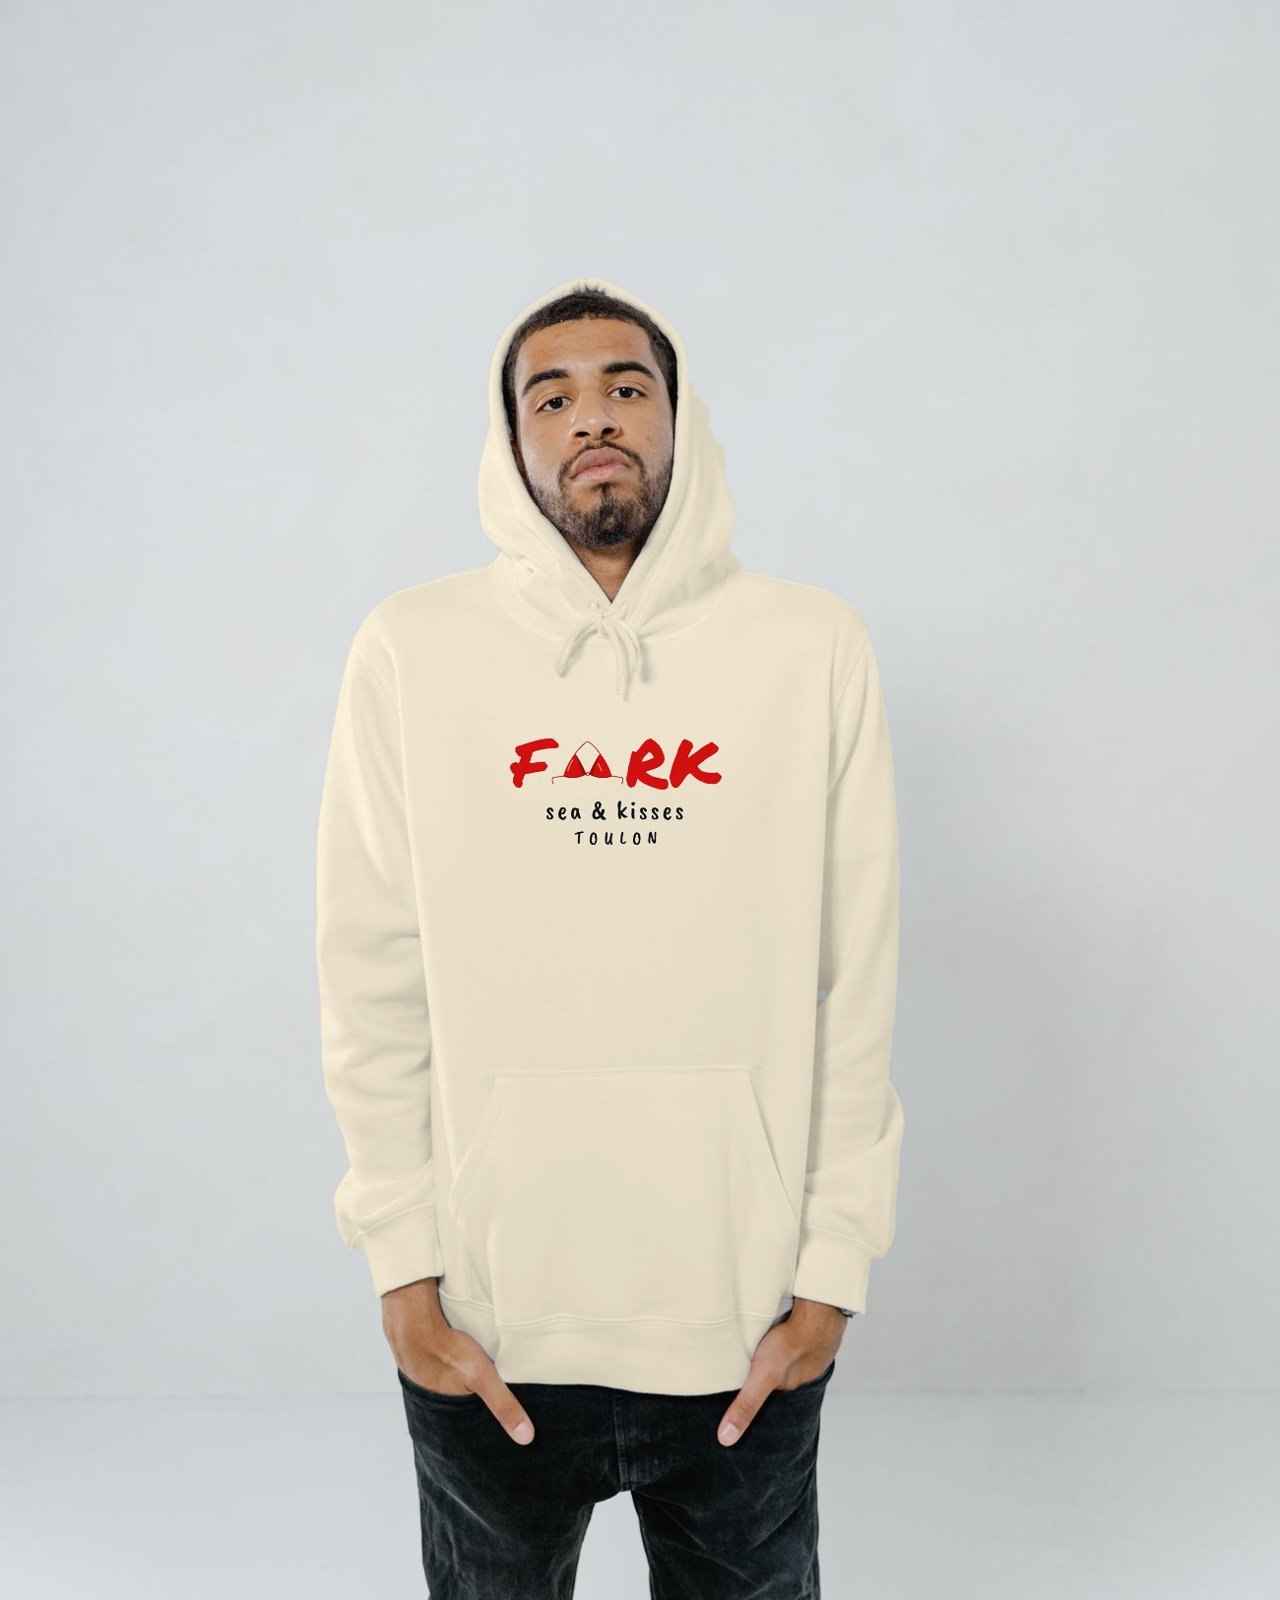
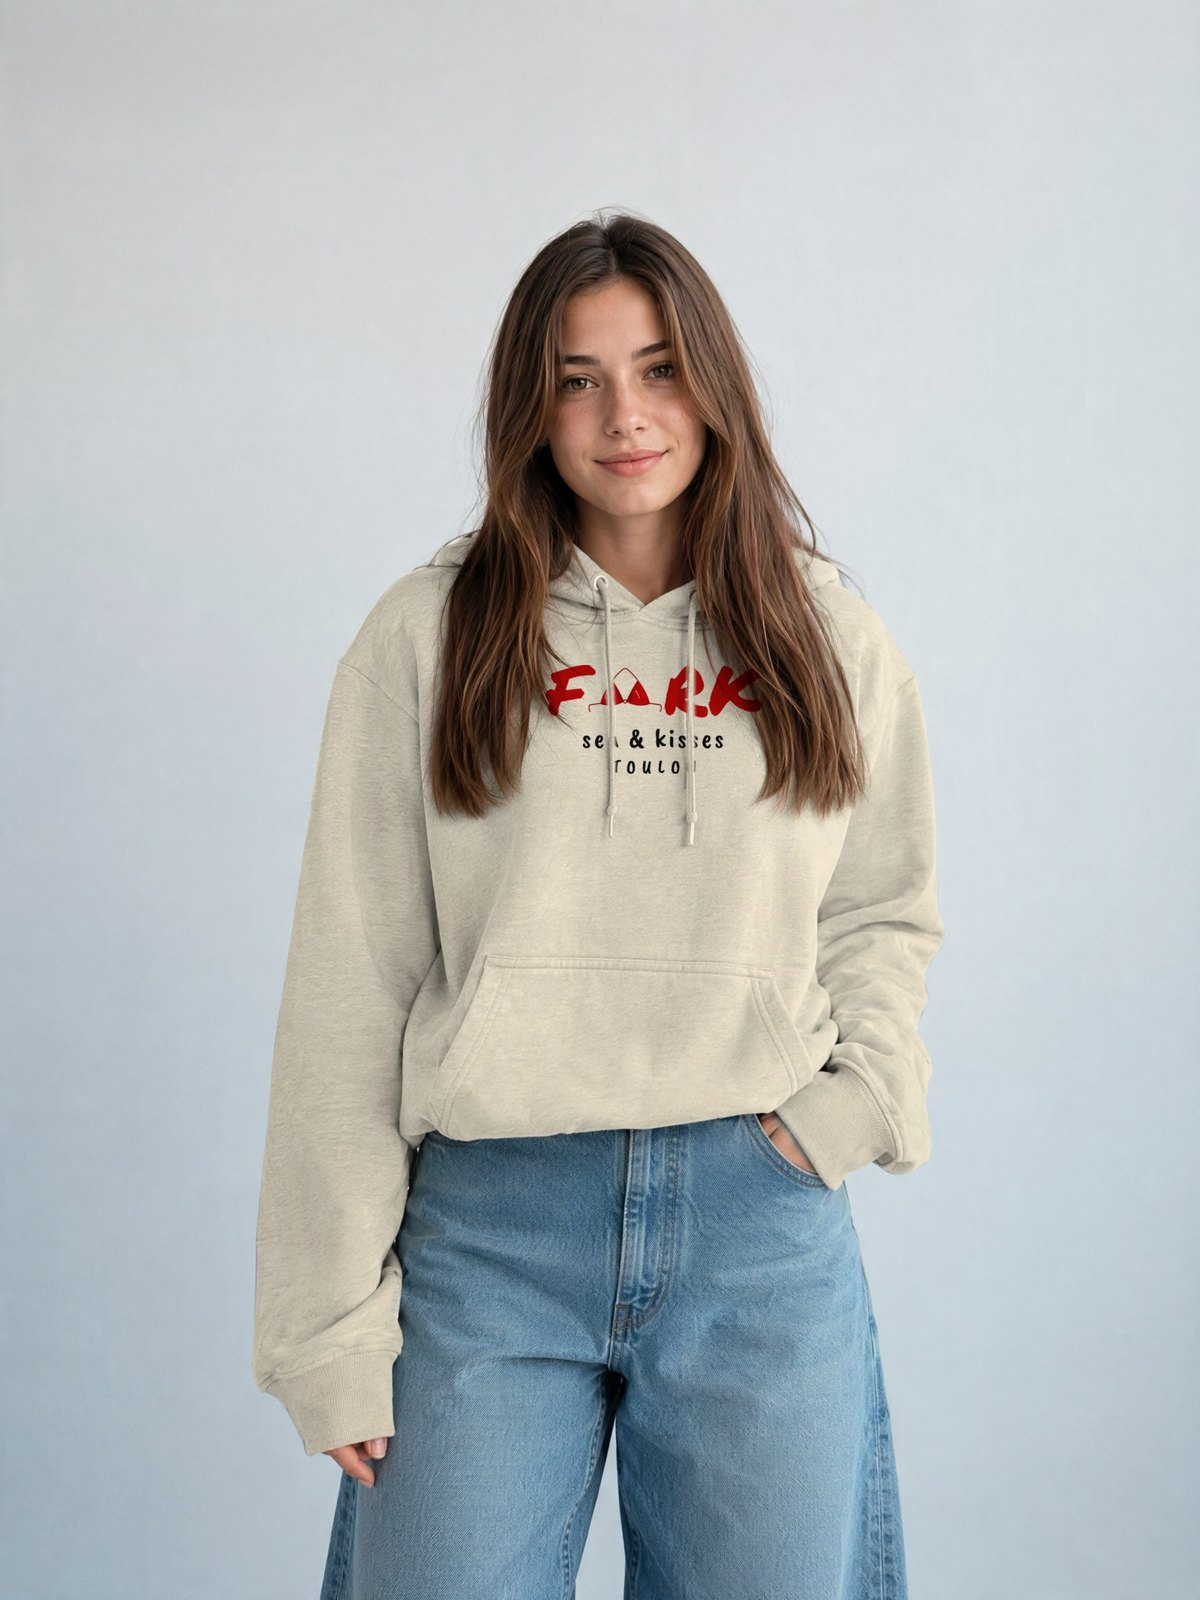
Sweats : nouvelles photos portées (Peuchère face, Kiss me face, Fada de toi face et dos)
Claude-Session: https://claude.ai/code/session_01GFcEo8CeEWRdz4Zgtn1h3S

diff --git a/public/sweat/fada-de-toi/index.html b/public/sweat/fada-de-toi/index.html
@@ -26,12 +26,12 @@
   <meta property="og:url" content="https://fork-clothe.com/sweat/fada-de-toi/">
   <meta property="og:title" content="Sweat Fada de toi · FORK">
   <meta property="og:description" content="Être fada de quelqu&#39;un, c&#39;est l&#39;aimer à la toulonnaise : fort et sans retenue. Devant, le logo FORK et « fada de toi », avec un cœur à la place du point du i. Dans le dos, le grand cœur FORK et TOULON.">
-  <meta property="og:image" content="https://fork-clothe.com/assets/products/fada-de-toi/fada-de-toi-maquette-face.jpg">
-  <meta property="og:image:alt" content="Sweat à capuche crème Fada de toi, vue de face">
+  <meta property="og:image" content="https://fork-clothe.com/assets/products/fada-de-toi/fada-de-toi-face.jpg">
+  <meta property="og:image:alt" content="Sweat Fada de toi crème porté de face : FORK et « fada de toi » avec un cœur">
   <meta property="product:price:amount" content="45.00">
   <meta property="product:price:currency" content="EUR">
   <meta name="twitter:card" content="summary_large_image">
-  <script type="application/ld+json">{"@context":"https://schema.org","@type":"Product","name":"Sweat Fada de toi","description":"Être fada de quelqu'un, c'est l'aimer à la toulonnaise : fort et sans retenue. Devant, le logo FORK et « fada de toi », avec un cœur à la place du point du i. Dans le dos, le grand cœur FORK et TOULON.","image":["https://fork-clothe.com/assets/products/fada-de-toi/fada-de-toi-maquette-face.jpg","https://fork-clothe.com/assets/products/fada-de-toi/fada-de-toi-maquette-dos.jpg"],"sku":"fork-sweat-fada-de-toi","color":"Crème","brand":{"@type":"Brand","name":"FORK"},"offers":{"@type":"Offer","url":"https://fork-clothe.com/sweat/fada-de-toi/","price":"45.00","priceCurrency":"EUR","availability":"https://schema.org/InStock","itemCondition":"https://schema.org/NewCondition","seller":{"@type":"Organization","name":"FORK"},"shippingDetails":{"@type":"OfferShippingDetails","shippingRate":{"@type":"MonetaryAmount","value":7.64,"currency":"EUR"},"shippingDestination":{"@type":"DefinedRegion","addressCountry":"FR"},"deliveryTime":{"@type":"ShippingDeliveryTime","handlingTime":{"@type":"QuantitativeValue","minValue":1,"maxValue":3,"unitCode":"DAY"},"transitTime":{"@type":"QuantitativeValue","minValue":1,"maxValue":5,"unitCode":"DAY"}}},"hasMerchantReturnPolicy":{"@type":"MerchantReturnPolicy","applicableCountry":"FR","returnPolicyCategory":"https://schema.org/MerchantReturnFiniteReturnWindow","merchantReturnDays":14,"returnMethod":"https://schema.org/ReturnByMail","returnFees":"https://schema.org/ReturnFeesCustomerResponsibility"}}}</script>
+  <script type="application/ld+json">{"@context":"https://schema.org","@type":"Product","name":"Sweat Fada de toi","description":"Être fada de quelqu'un, c'est l'aimer à la toulonnaise : fort et sans retenue. Devant, le logo FORK et « fada de toi », avec un cœur à la place du point du i. Dans le dos, le grand cœur FORK et TOULON.","image":["https://fork-clothe.com/assets/products/fada-de-toi/fada-de-toi-face.jpg","https://fork-clothe.com/assets/products/fada-de-toi/fada-de-toi-dos.jpg"],"sku":"fork-sweat-fada-de-toi","color":"Crème","brand":{"@type":"Brand","name":"FORK"},"offers":{"@type":"Offer","url":"https://fork-clothe.com/sweat/fada-de-toi/","price":"45.00","priceCurrency":"EUR","availability":"https://schema.org/InStock","itemCondition":"https://schema.org/NewCondition","seller":{"@type":"Organization","name":"FORK"},"shippingDetails":{"@type":"OfferShippingDetails","shippingRate":{"@type":"MonetaryAmount","value":7.64,"currency":"EUR"},"shippingDestination":{"@type":"DefinedRegion","addressCountry":"FR"},"deliveryTime":{"@type":"ShippingDeliveryTime","handlingTime":{"@type":"QuantitativeValue","minValue":1,"maxValue":3,"unitCode":"DAY"},"transitTime":{"@type":"QuantitativeValue","minValue":1,"maxValue":5,"unitCode":"DAY"}}},"hasMerchantReturnPolicy":{"@type":"MerchantReturnPolicy","applicableCountry":"FR","returnPolicyCategory":"https://schema.org/MerchantReturnFiniteReturnWindow","merchantReturnDays":14,"returnMethod":"https://schema.org/ReturnByMail","returnFees":"https://schema.org/ReturnFeesCustomerResponsibility"}}}</script>
   <script type="application/ld+json">{"@context":"https://schema.org","@type":"BreadcrumbList","itemListElement":[{"@type":"ListItem","position":1,"name":"Les sweats","item":"https://fork-clothe.com/sweats/"},{"@type":"ListItem","position":2,"name":"Sweat Fada de toi","item":"https://fork-clothe.com/sweat/fada-de-toi/"}]}</script>
 </head>
 <body data-product-page="fada-de-toi">
@@ -90,7 +90,7 @@
     <div class="wrap">
       <nav class="crumbs" aria-label="Fil d'Ariane"><a href="sweats/">Les sweats</a><span aria-hidden="true">›</span><span>Sweat Fada de toi</span></nav>
       <div class="sheet page-sheet" id="pageSheet">
-        <div class="gallery"><img src="assets/products/fada-de-toi/fada-de-toi-maquette-face.jpg" alt="Sweat à capuche crème Fada de toi, vue de face"><img src="assets/products/fada-de-toi/fada-de-toi-maquette-dos.jpg" alt="Dos du sweat Fada de toi : grand cœur FORK et TOULON" loading="lazy"></div>
+        <div class="gallery"><img src="assets/products/fada-de-toi/fada-de-toi-face.jpg" alt="Sweat Fada de toi crème porté de face : FORK et « fada de toi » avec un cœur"><img src="assets/products/fada-de-toi/fada-de-toi-dos.jpg" alt="Dos du sweat Fada de toi : grand cœur FORK et TOULON" loading="lazy"></div>
         <div class="sheet-info page-static">
           <h1>Sweat Fada de toi</h1>
           <p class="pmeta">Crème · Femme</p>

diff --git a/public/assets/js/app.js b/public/assets/js/app.js
@@ -184,8 +184,8 @@
       keywords: ["sweat", "capuche", "hoodie", "fada", "coeur", "amour", "creme", "femme"],
       description: "Être fada de quelqu'un, c'est l'aimer à la toulonnaise : fort et sans retenue. Devant, le logo FORK et « fada de toi », avec un cœur à la place du point du i. Dans le dos, le grand cœur FORK et TOULON.",
       images: [
-        { src: "assets/products/fada-de-toi/fada-de-toi-maquette-face.jpg", alt: "Sweat à capuche crème Fada de toi, vue de face" },
-        { src: "assets/products/fada-de-toi/fada-de-toi-maquette-dos.jpg", alt: "Dos du sweat Fada de toi : grand cœur FORK et TOULON" },
+        { src: "assets/products/fada-de-toi/fada-de-toi-face.jpg", alt: "Sweat Fada de toi crème porté de face : FORK et « fada de toi » avec un cœur" },
+        { src: "assets/products/fada-de-toi/fada-de-toi-dos.jpg", alt: "Dos du sweat Fada de toi : grand cœur FORK et TOULON" },
       ],
     },
   ];

diff --git a/public/sweat/kiss-me-by-the-sea/index.html b/public/sweat/kiss-me-by-the-sea/index.html
@@ -117,7 +117,7 @@
           <span class="price">45,00 €</span>
         </a>
         <a class="pcard" href="sweat/fada-de-toi/" data-product="fada-de-toi">
-          <div class="pimg"><span class="pbadge">Nouveau</span><img src="assets/products/fada-de-toi/fada-de-toi-maquette-face.jpg" alt="Sweat à capuche crème Fada de toi, vue de face" loading="lazy"></div>
+          <div class="pimg"><span class="pbadge">Nouveau</span><img src="assets/products/fada-de-toi/fada-de-toi-face.jpg" alt="Sweat Fada de toi crème porté de face : FORK et « fada de toi » avec un cœur" loading="lazy"></div>
           <span class="pname">Sweat Fada de toi</span>
           <span class="pmeta">Crème · Femme</span>
           <span class="price">45,00 €</span>

diff --git a/public/sweat/peuchere/index.html b/public/sweat/peuchere/index.html
@@ -117,7 +117,7 @@
           <span class="price">45,00 €</span>
         </a>
         <a class="pcard" href="sweat/fada-de-toi/" data-product="fada-de-toi">
-          <div class="pimg"><span class="pbadge">Nouveau</span><img src="assets/products/fada-de-toi/fada-de-toi-maquette-face.jpg" alt="Sweat à capuche crème Fada de toi, vue de face" loading="lazy"></div>
+          <div class="pimg"><span class="pbadge">Nouveau</span><img src="assets/products/fada-de-toi/fada-de-toi-face.jpg" alt="Sweat Fada de toi crème porté de face : FORK et « fada de toi » avec un cœur" loading="lazy"></div>
           <span class="pname">Sweat Fada de toi</span>
           <span class="pmeta">Crème · Femme</span>
           <span class="price">45,00 €</span>

diff --git a/public/sweat/so-spicy/index.html b/public/sweat/so-spicy/index.html
@@ -117,7 +117,7 @@
           <span class="price">45,00 €</span>
         </a>
         <a class="pcard" href="sweat/fada-de-toi/" data-product="fada-de-toi">
-          <div class="pimg"><span class="pbadge">Nouveau</span><img src="assets/products/fada-de-toi/fada-de-toi-maquette-face.jpg" alt="Sweat à capuche crème Fada de toi, vue de face" loading="lazy"></div>
+          <div class="pimg"><span class="pbadge">Nouveau</span><img src="assets/products/fada-de-toi/fada-de-toi-face.jpg" alt="Sweat Fada de toi crème porté de face : FORK et « fada de toi » avec un cœur" loading="lazy"></div>
           <span class="pname">Sweat Fada de toi</span>
           <span class="pmeta">Crème · Femme</span>
           <span class="price">45,00 €</span>

diff --git a/lib/catalogue.generated.ts b/lib/catalogue.generated.ts
@@ -140,7 +140,7 @@ export const CATALOGUE: CatalogueItem[] = [
       "XL"
     ],
     "available": true,
-    "image": "https://fork-clothe.com/assets/products/fada-de-toi/fada-de-toi-maquette-face.jpg",
+    "image": "https://fork-clothe.com/assets/products/fada-de-toi/fada-de-toi-face.jpg",
     "url": "https://fork-clothe.com/sweat/fada-de-toi/"
   }
 ];
